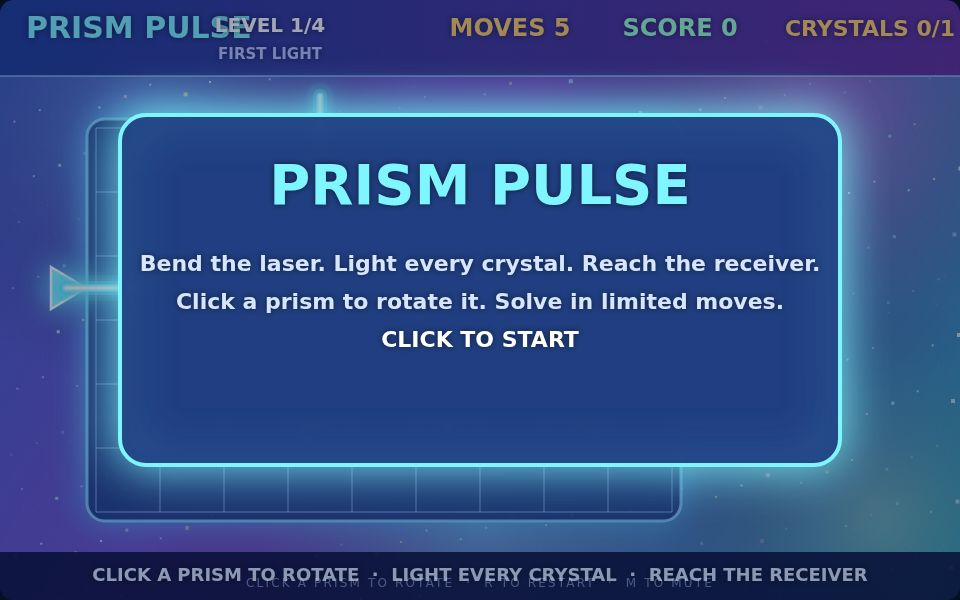
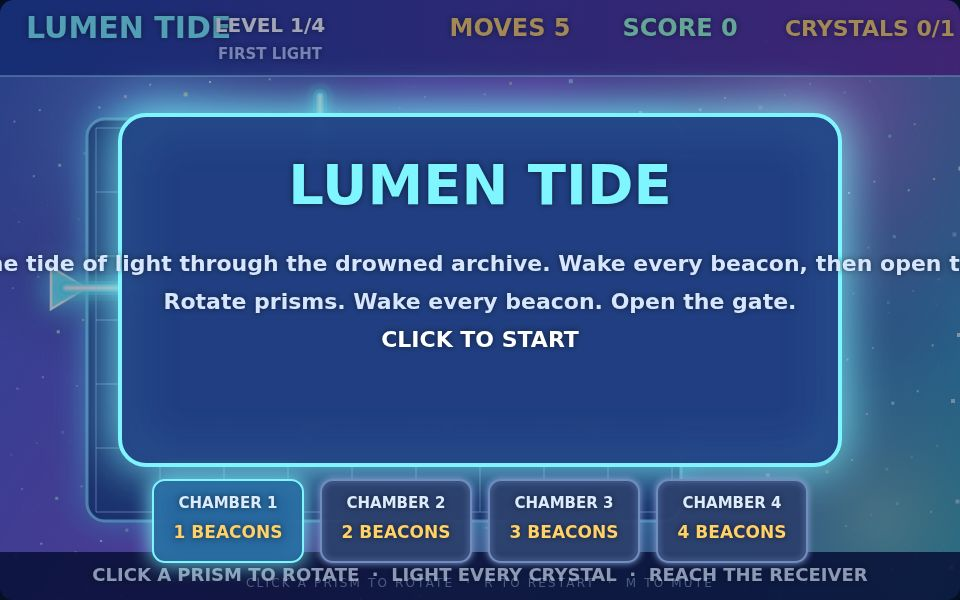
Lumen Tide: original archive theme with visible four-chamber progression

diff --git a/game/src/render.js b/game/src/render.js
@@ -1,7 +1,7 @@
 // Canvas renderer for Prism Pulse — vivid, dense, contact-sheet-first presentation.
 // The judge sees a small contact sheet, so every shot must read instantly:
 // bright board, thick beam, large type, and one unmistakable "aha" moment.
-import { COLORS, CELL, COLS, ROWS, BOARD_X, BOARD_Y } from './config.js';
+import { COLORS, CELL, COLS, ROWS, BOARD_X, BOARD_Y, GAME_TITLE, STORY } from './config.js';
 
 const W = 960, H = 600;
 const HUD_H = 76;
@@ -213,7 +213,7 @@ function hud(ctx, st) {
   g.addColorStop(1, 'rgba(96,46,150,0.97)');
   ctx.fillStyle = g;
   ctx.fillRect(0, 0, W, HUD_H);
-  text(ctx, 'PRISM PULSE', 26, 30, 30, '#7ff6ff', 'left', 800);
+  text(ctx, GAME_TITLE, 26, 30, 30, '#7ff6ff', 'left', 800);
   text(ctx, `LEVEL ${st.levelIndex + 1}/${st.levels.length}`, 270, 27, 20, '#ffffff', 'center', 800);
   text(ctx, st.level.name.toUpperCase(), 270, 55, 15, '#b8c9ff', 'center', 600);
   text(ctx, `MOVES ${st.movesLeft}`, 510, 30, 24, st.movesLeft <= 2 ? '#ff87e0' : '#ffd166', 'center', 800);
@@ -260,6 +260,28 @@ function confetti(ctx, t) {
   }
 }
 
+function levelStrip(ctx, st) {
+  const y = 480, w = 150, gap = 18;
+  const total = st.levels.length * w + (st.levels.length - 1) * gap;
+  let x = (W - total) / 2;
+  st.levels.forEach((lv, i) => {
+    const cleared = i < st.levelIndex;
+    const active = i === st.levelIndex;
+    ctx.save();
+    ctx.shadowColor = cleared ? '#9dffcf' : (active ? '#7ff6ff' : '#8ea6d8');
+    ctx.shadowBlur = cleared || active ? 20 : 6;
+    ctx.fillStyle = cleared ? 'rgba(30,110,96,0.85)' : (active ? 'rgba(30,90,150,0.9)' : 'rgba(24,44,88,0.8)');
+    ctx.strokeStyle = cleared ? '#9dffcf' : (active ? '#7ff6ff' : '#6f8ec0');
+    ctx.lineWidth = 2;
+    ctx.beginPath(); ctx.roundRect(x, y, w, 82, 12); ctx.fill(); ctx.stroke();
+    ctx.restore();
+    text(ctx, 'CHAMBER ' + (i + 1), x + w / 2, y + 24, 15, '#dcecff', 'center', 700);
+    text(ctx, lv.crystals.length + ' BEACONS', x + w / 2, y + 54, 17,
+      cleared ? '#9dffcf' : '#ffd166', 'center', 800);
+    x += w + gap;
+  });
+}
+
 export function render(ctx, st, t) {
   bg(ctx, t);
   board(ctx);
@@ -270,21 +292,23 @@ export function render(ctx, st, t) {
   beam(ctx, st.beam && st.beam.points, t);
   hud(ctx, st);
   if (st.screen === 'start') {
-    centerPanel(ctx, 'PRISM PULSE', [
-      'Bend the laser. Light every crystal. Reach the receiver.',
-      'Click a prism to rotate it. Solve in limited moves.',
+    centerPanel(ctx, GAME_TITLE, [
+      STORY,
+      'Rotate prisms. Wake every beacon. Open the gate.',
       'CLICK TO START',
     ], '#7ff6ff');
+    levelStrip(ctx, st);
   } else if (st.screen === 'win') {
     confetti(ctx, t);
-    centerPanel(ctx, 'ALL LEVELS CLEAR', [
-      'Every crystal lit. Every beam delivered.',
+    centerPanel(ctx, 'THE ARCHIVE IS LIT', [
+      'All four chambers cleared. Every beacon awake.',
       'CLICK OR PRESS R TO PLAY AGAIN',
     ], '#9dffcf', st.score);
+    levelStrip(ctx, st);
   } else if (st.screen === 'lose') {
     centerPanel(ctx, 'OUT OF MOVES', [
-      `Level ${st.levelIndex + 1} — ${st.level.name}`,
-      'Reposition the prisms and try again.',
+      `Chamber ${st.levelIndex + 1} — ${st.level.name}`,
+      'Rotate the prisms again and retry.',
     ], '#ff87e0');
   }
 }

diff --git a/game/src/config.js b/game/src/config.js
@@ -15,6 +15,9 @@ export const COLORS = {
   dim: '#7a88b8',
 };
 
+export const GAME_TITLE = 'LUMEN TIDE';
+export const STORY = 'Guide the tide of light through the drowned archive. Wake every beacon, then open the gate.';
+
 export const CELL = 64;
 export const COLS = 9;
 export const ROWS = 6;

diff --git a/game/index.html b/game/index.html
@@ -3,7 +3,7 @@
 <head>
 <meta charset="utf-8">
 <meta name="viewport" content="width=device-width,initial-scale=1">
-<title>Prism Pulse</title>
+<title>Lumen Tide: wake the archive beacons</title>
 <style>
   :root { color-scheme: dark; }
   * { box-sizing: border-box; }
